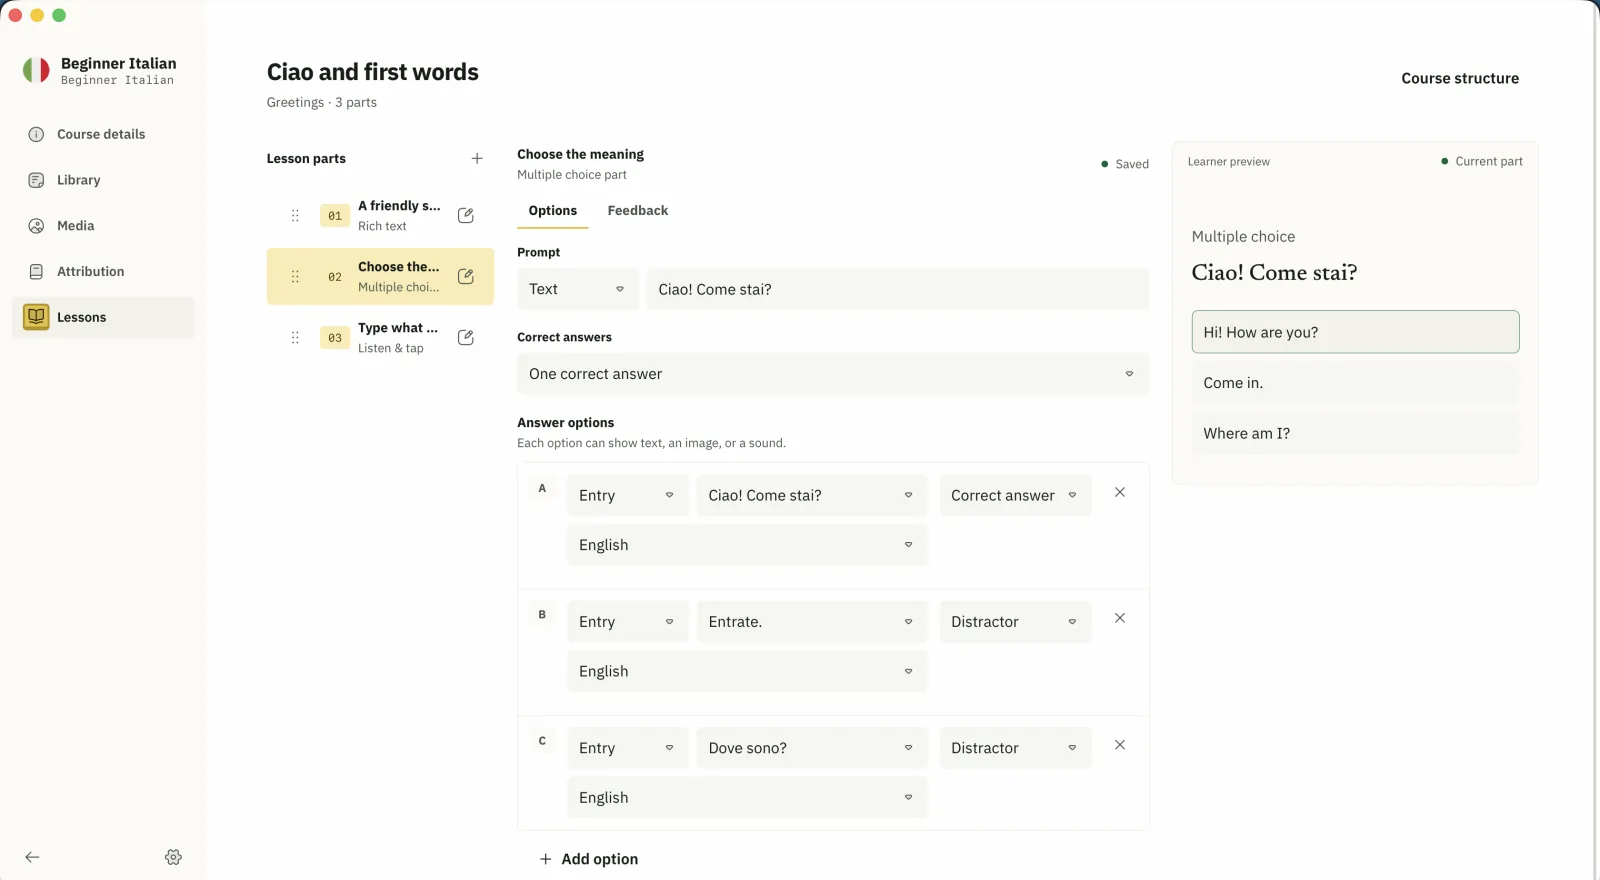
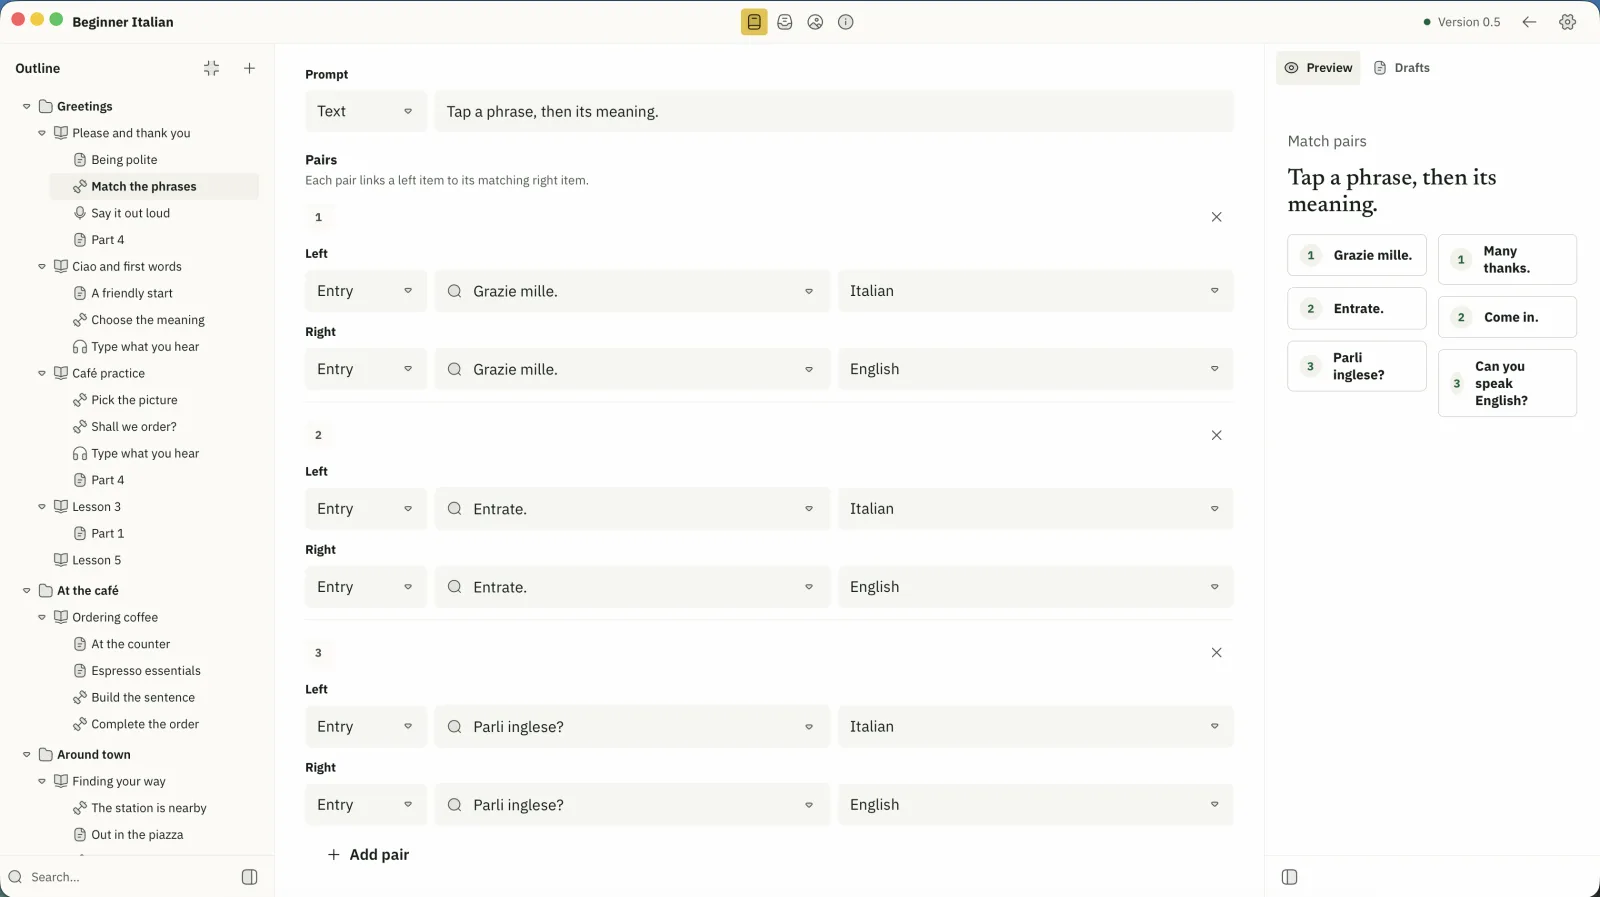
update screenshots

diff --git a/src/i18n/ja.ts b/src/i18n/ja.ts
@@ -52,7 +52,7 @@ export const jaMessages = {
     label: "Asakiri Studio",
     title: "コースができるまで",
     lede: "Asakiri では決まった順序でコースを作ります。教える語や表現をライブラリにまとめ、音声と画像を加え、レッスンを並べ、それらを参照するパートと演習を書きます。各ステップが次のステップにつながります。",
-    stepsHeading: "5つのステップ",
+    stepsHeading: "4つのステップ",
     steps: [
       {
         title: "まずライブラリを作る",
@@ -67,22 +67,16 @@ export const jaMessages = {
         imageAlt: "写真と音声クリップ、メディア追加メニューを開いた Asakiri Studio のメディアライブラリ。",
       },
       {
-        title: "コースを構成する",
-        body: "レッスンをユニットにまとめ、各レッスンのパートを好きな順にドラッグします。レッスンが10でも200でも、アウトラインは読みやすいままです。",
-        image: "/mocks/studio-course-structure.webp",
-        imageAlt: "ユニットとレッスンからなる初級イタリア語コースを示す Asakiri Studio のコースアウトライン。",
-      },
-      {
-        title: "レッスンを書く",
-        body: "各レッスンはパートの積み重ねです。リッチテキスト、メディア、または演習。学習者プレビューを見ながら書き、すでにある語を打ち直す代わりにライブラリのエントリーを差し込みます。",
+        title: "レッスンを構成して書く",
+        body: "レッスンをユニットにまとめ、各レッスンのパートをアウトラインで並べ、学習者プレビューを見ながら各パートを書きます。パートはリッチテキスト、メディア、または演習で、すでにある語を打ち直す代わりにライブラリのエントリーを差し込みます。",
         image: "/mocks/studio-lesson-editor.webp",
-        imageAlt: "リッチテキストのパートと学習者プレビューパネルを表示した Asakiri Studio のレッスンエディター。",
+        imageAlt: "左にユニットとレッスンのアウトライン、中央にリッチテキストのパート、右に学習者プレビューを表示した Asakiri Studio のレッスンエディター。",
       },
       {
         title: "自動で採点される演習を加える",
         body: "選択式、リスニング、マッチング、語順など。各演習はライブラリのエントリーを読み込むので、解答キーはエントリーそのものです。エントリーを直せば演習も正しいままです。",
         image: "/mocks/studio-exercise-editor.webp",
-        imageAlt: "解答の選択肢とプレビューを表示し、選択式の演習を編集している Asakiri Studio。",
+        imageAlt: "イタリア語と英語のペアとライブプレビューを表示し、マッチング演習を編集している Asakiri Studio。",
       },
     ],
     libraryHeading: "ライブラリの役割",

diff --git a/src/i18n/pt.ts b/src/i18n/pt.ts
@@ -50,7 +50,7 @@ export const ptMessages = {
     label: "Asakiri Studio",
     title: "Como se monta um curso",
     lede: "No Asakiri constrói um curso por uma ordem definida. Encha uma biblioteca com as palavras e frases que ensina, adicione o áudio e as imagens, organize as lições e escreva as partes e os exercícios que bebem de tudo isso. Cada passo alimenta o seguinte.",
-    stepsHeading: "Os cinco passos",
+    stepsHeading: "Os quatro passos",
     steps: [
       {
         title: "Primeiro, construa a biblioteca",
@@ -67,25 +67,18 @@ export const ptMessages = {
           "A biblioteca de multimédia do Asakiri Studio com fotografias e clipes de áudio e um menu para adicionar media aberto.",
       },
       {
-        title: "Organize o curso",
-        body: "Agrupe as lições em unidades e arraste as partes de cada lição para a ordem que quiser. O esquema mantém-se legível quer o curso tenha dez lições ou duzentas.",
-        image: "/mocks/studio-course-structure.webp",
-        imageAlt:
-          "Um esquema de curso no Asakiri Studio que mostra um curso de italiano para principiantes com unidades e lições.",
-      },
-      {
-        title: "Escreva as lições",
-        body: "Cada lição é uma pilha de partes: texto formatado, multimédia ou um exercício. Escreve ao lado de uma pré-visualização do aluno em tempo real e adiciona entradas da biblioteca em vez de voltar a escrever uma palavra que já tem.",
+        title: "Organize e escreva as lições",
+        body: "Agrupe as lições em unidades e disponha as partes de cada lição no esquema, depois escreva cada parte ao lado de uma pré-visualização do aluno em tempo real. As partes são texto formatado, multimédia ou exercícios, e adiciona entradas da biblioteca em vez de voltar a escrever uma palavra que já tem.",
         image: "/mocks/studio-lesson-editor.webp",
         imageAlt:
-          "O editor de lições do Asakiri Studio com uma parte de texto formatado e um painel de pré-visualização do aluno.",
+          "O editor de lições do Asakiri Studio: um esquema do curso com unidades e lições à esquerda, uma parte de texto formatado ao centro e uma pré-visualização do aluno em tempo real à direita.",
       },
       {
         title: "Adicione exercícios que se corrigem sozinhos",
         body: "Escolha múltipla, compreensão oral, correspondência, ordenar palavras e mais. Cada exercício lê das entradas da sua biblioteca, por isso a chave de respostas é a própria entrada. Corrija a entrada e o exercício continua certo.",
         image: "/mocks/studio-exercise-editor.webp",
         imageAlt:
-          "Um exercício de escolha múltipla a ser editado no Asakiri Studio com opções de resposta e uma pré-visualização.",
+          "Um exercício de correspondência a ser editado no Asakiri Studio, com entradas de italiano e inglês emparelhadas e uma pré-visualização em tempo real.",
       },
     ],
     libraryHeading: "Para que serve a biblioteca",

diff --git a/src/i18n/es.ts b/src/i18n/es.ts
@@ -50,7 +50,7 @@ export const esMessages = {
     label: "Asakiri Studio",
     title: "Cómo se arma un curso",
     lede: "En Asakiri construyes un curso en un orden definido. Llena una biblioteca con las palabras y frases que enseñas, añade el audio y las imágenes, organiza las lecciones y escribe las partes y los ejercicios que se nutren de todo ello. Cada paso alimenta al siguiente.",
-    stepsHeading: "Los cinco pasos",
+    stepsHeading: "Los cuatro pasos",
     steps: [
       {
         title: "Primero, crea la biblioteca",
@@ -67,25 +67,18 @@ export const esMessages = {
           "La biblioteca de medios de Asakiri Studio con fotos y clips de audio y un menú para añadir medios abierto.",
       },
       {
-        title: "Organiza el curso",
-        body: "Agrupa las lecciones en unidades y arrastra las partes de cada lección al orden que quieras. El esquema se mantiene legible tanto si el curso tiene diez lecciones como doscientas.",
-        image: "/mocks/studio-course-structure.webp",
-        imageAlt:
-          "Un esquema de curso en Asakiri Studio que muestra un curso de italiano para principiantes con unidades y lecciones.",
-      },
-      {
-        title: "Escribe las lecciones",
-        body: "Cada lección es una pila de partes: texto enriquecido, medios o un ejercicio. Escribes junto a una vista previa del alumno en vivo, y añades entradas de la biblioteca en lugar de volver a teclear una palabra que ya tienes.",
+        title: "Organiza y escribe las lecciones",
+        body: "Agrupa las lecciones en unidades y ordena las partes de cada lección en el esquema, luego escribe cada parte junto a una vista previa del alumno en vivo. Las partes son texto enriquecido, medios o ejercicios, y añades entradas de la biblioteca en lugar de volver a teclear una palabra que ya tienes.",
         image: "/mocks/studio-lesson-editor.webp",
         imageAlt:
-          "El editor de lecciones de Asakiri Studio con una parte de texto enriquecido y un panel de vista previa del alumno.",
+          "El editor de lecciones de Asakiri Studio: un esquema del curso con unidades y lecciones a la izquierda, una parte de texto enriquecido en el centro y una vista previa del alumno en vivo a la derecha.",
       },
       {
         title: "Añade ejercicios que se corrigen solos",
         body: "Opción múltiple, comprensión auditiva, emparejar, ordenar palabras y más. Cada ejercicio lee de las entradas de tu biblioteca, así que la clave de respuestas es la propia entrada. Corrige la entrada y el ejercicio sigue siendo correcto.",
         image: "/mocks/studio-exercise-editor.webp",
         imageAlt:
-          "Un ejercicio de opción múltiple editándose en Asakiri Studio con opciones de respuesta y una vista previa.",
+          "Un ejercicio de emparejar editándose en Asakiri Studio, con entradas de italiano e inglés emparejadas y una vista previa en vivo.",
       },
     ],
     libraryHeading: "Para qué sirve la biblioteca",

diff --git a/src/i18n/it.ts b/src/i18n/it.ts
@@ -50,7 +50,7 @@ export const itMessages = {
     label: "Asakiri Studio",
     title: "Come nasce un corso",
     lede: "In Asakiri costruisci un corso in un ordine preciso. Riempi una libreria con le parole e le frasi che insegni, aggiungi l'audio e le immagini, imposta le lezioni e scrivi le parti e gli esercizi che attingono a tutto questo. Ogni passo alimenta il successivo.",
-    stepsHeading: "I cinque passi",
+    stepsHeading: "I quattro passi",
     steps: [
       {
         title: "Prima costruisci la libreria",
@@ -67,25 +67,18 @@ export const itMessages = {
           "La libreria multimediale di Asakiri Studio con foto e clip audio e un menu per aggiungere media aperto.",
       },
       {
-        title: "Imposta il corso",
-        body: "Raggruppa le lezioni in unità e trascina le parti di ogni lezione nell'ordine che vuoi. La struttura resta leggibile che il corso abbia dieci lezioni o duecento.",
-        image: "/mocks/studio-course-structure.webp",
-        imageAlt:
-          "Una struttura di corso in Asakiri Studio che mostra un corso di italiano per principianti con unità e lezioni.",
-      },
-      {
-        title: "Scrivi le lezioni",
-        body: "Ogni lezione è una pila di parti: testo formattato, media o un esercizio. Scrivi accanto a un'anteprima dello studente in tempo reale e inserisci le voci della libreria invece di ridigitare una parola che hai già.",
+        title: "Imposta e scrivi le lezioni",
+        body: "Raggruppa le lezioni in unità e disponi le parti di ogni lezione nella struttura, poi scrivi ogni parte accanto a un'anteprima dello studente in tempo reale. Le parti sono testo formattato, media o esercizi, e inserisci le voci della libreria invece di ridigitare una parola che hai già.",
         image: "/mocks/studio-lesson-editor.webp",
         imageAlt:
-          "L'editor delle lezioni di Asakiri Studio con una parte di testo formattato e un pannello di anteprima dello studente.",
+          "L'editor delle lezioni di Asakiri Studio: la struttura del corso con unità e lezioni a sinistra, una parte di testo formattato al centro e un'anteprima dello studente in tempo reale a destra.",
       },
       {
         title: "Aggiungi esercizi che si correggono da soli",
         body: "Scelta multipla, ascolto, abbinamento, ordine delle parole e altro. Ogni esercizio legge dalle voci della tua libreria, così la chiave di correzione è la voce stessa. Correggi la voce e l'esercizio resta giusto.",
         image: "/mocks/studio-exercise-editor.webp",
         imageAlt:
-          "Un esercizio a scelta multipla in fase di modifica in Asakiri Studio con opzioni di risposta e un'anteprima.",
+          "Un esercizio di abbinamento in fase di modifica in Asakiri Studio, con voci italiane e inglesi abbinate e un'anteprima in tempo reale.",
       },
     ],
     libraryHeading: "A cosa serve la libreria",

diff --git a/src/i18n/en.ts b/src/i18n/en.ts
@@ -50,7 +50,7 @@ export const enMessages = {
     label: "Asakiri Studio",
     title: "How a course comes together",
     lede: "You build a course in Asakiri in a set order. Fill a library with the words and phrases you teach, add the audio and images, lay out the lessons, then write parts and exercises that draw from all of it. Each step feeds the next.",
-    stepsHeading: "The five steps",
+    stepsHeading: "The four steps",
     steps: [
       {
         title: "Build the library first",
@@ -67,25 +67,18 @@ export const enMessages = {
           "The Asakiri Studio media library with photos and audio clips and an add media menu open.",
       },
       {
-        title: "Lay out the course",
-        body: "Group lessons into units and drag each lesson's parts into the order you want. The outline stays readable whether the course has ten lessons or two hundred.",
-        image: "/mocks/studio-course-structure.webp",
-        imageAlt:
-          "An Asakiri Studio course outline showing a Beginner Italian course with units and lessons.",
-      },
-      {
-        title: "Write the lessons",
-        body: "Each lesson is a stack of parts: rich text, media, or an exercise. You write against a live learner preview, and you drop in library entries instead of retyping a word you already have.",
+        title: "Lay out and write the lessons",
+        body: "Group lessons into units and arrange each lesson's parts in the outline, then write every part against a live learner preview. Parts are rich text, media, or exercises, and you drop in library entries instead of retyping a word you already have.",
         image: "/mocks/studio-lesson-editor.webp",
         imageAlt:
-          "The Asakiri Studio lesson editor with a rich text part and a learner preview panel.",
+          "The Asakiri Studio lesson editor: a course outline of units and lessons on the left, a rich text part in the center, and a live learner preview on the right.",
       },
       {
         title: "Add exercises that grade themselves",
         body: "Multiple choice, listening, matching, word order, and more. Each exercise reads from your library entries, so the answer key is the entry itself. Fix the entry and the exercise stays correct.",
         image: "/mocks/studio-exercise-editor.webp",
         imageAlt:
-          "A multiple choice exercise being edited in Asakiri Studio with answer options and a preview.",
+          "A match-pairs exercise being edited in Asakiri Studio, with paired Italian and English entries and a live preview.",
       },
     ],
     libraryHeading: "What the library is for",
